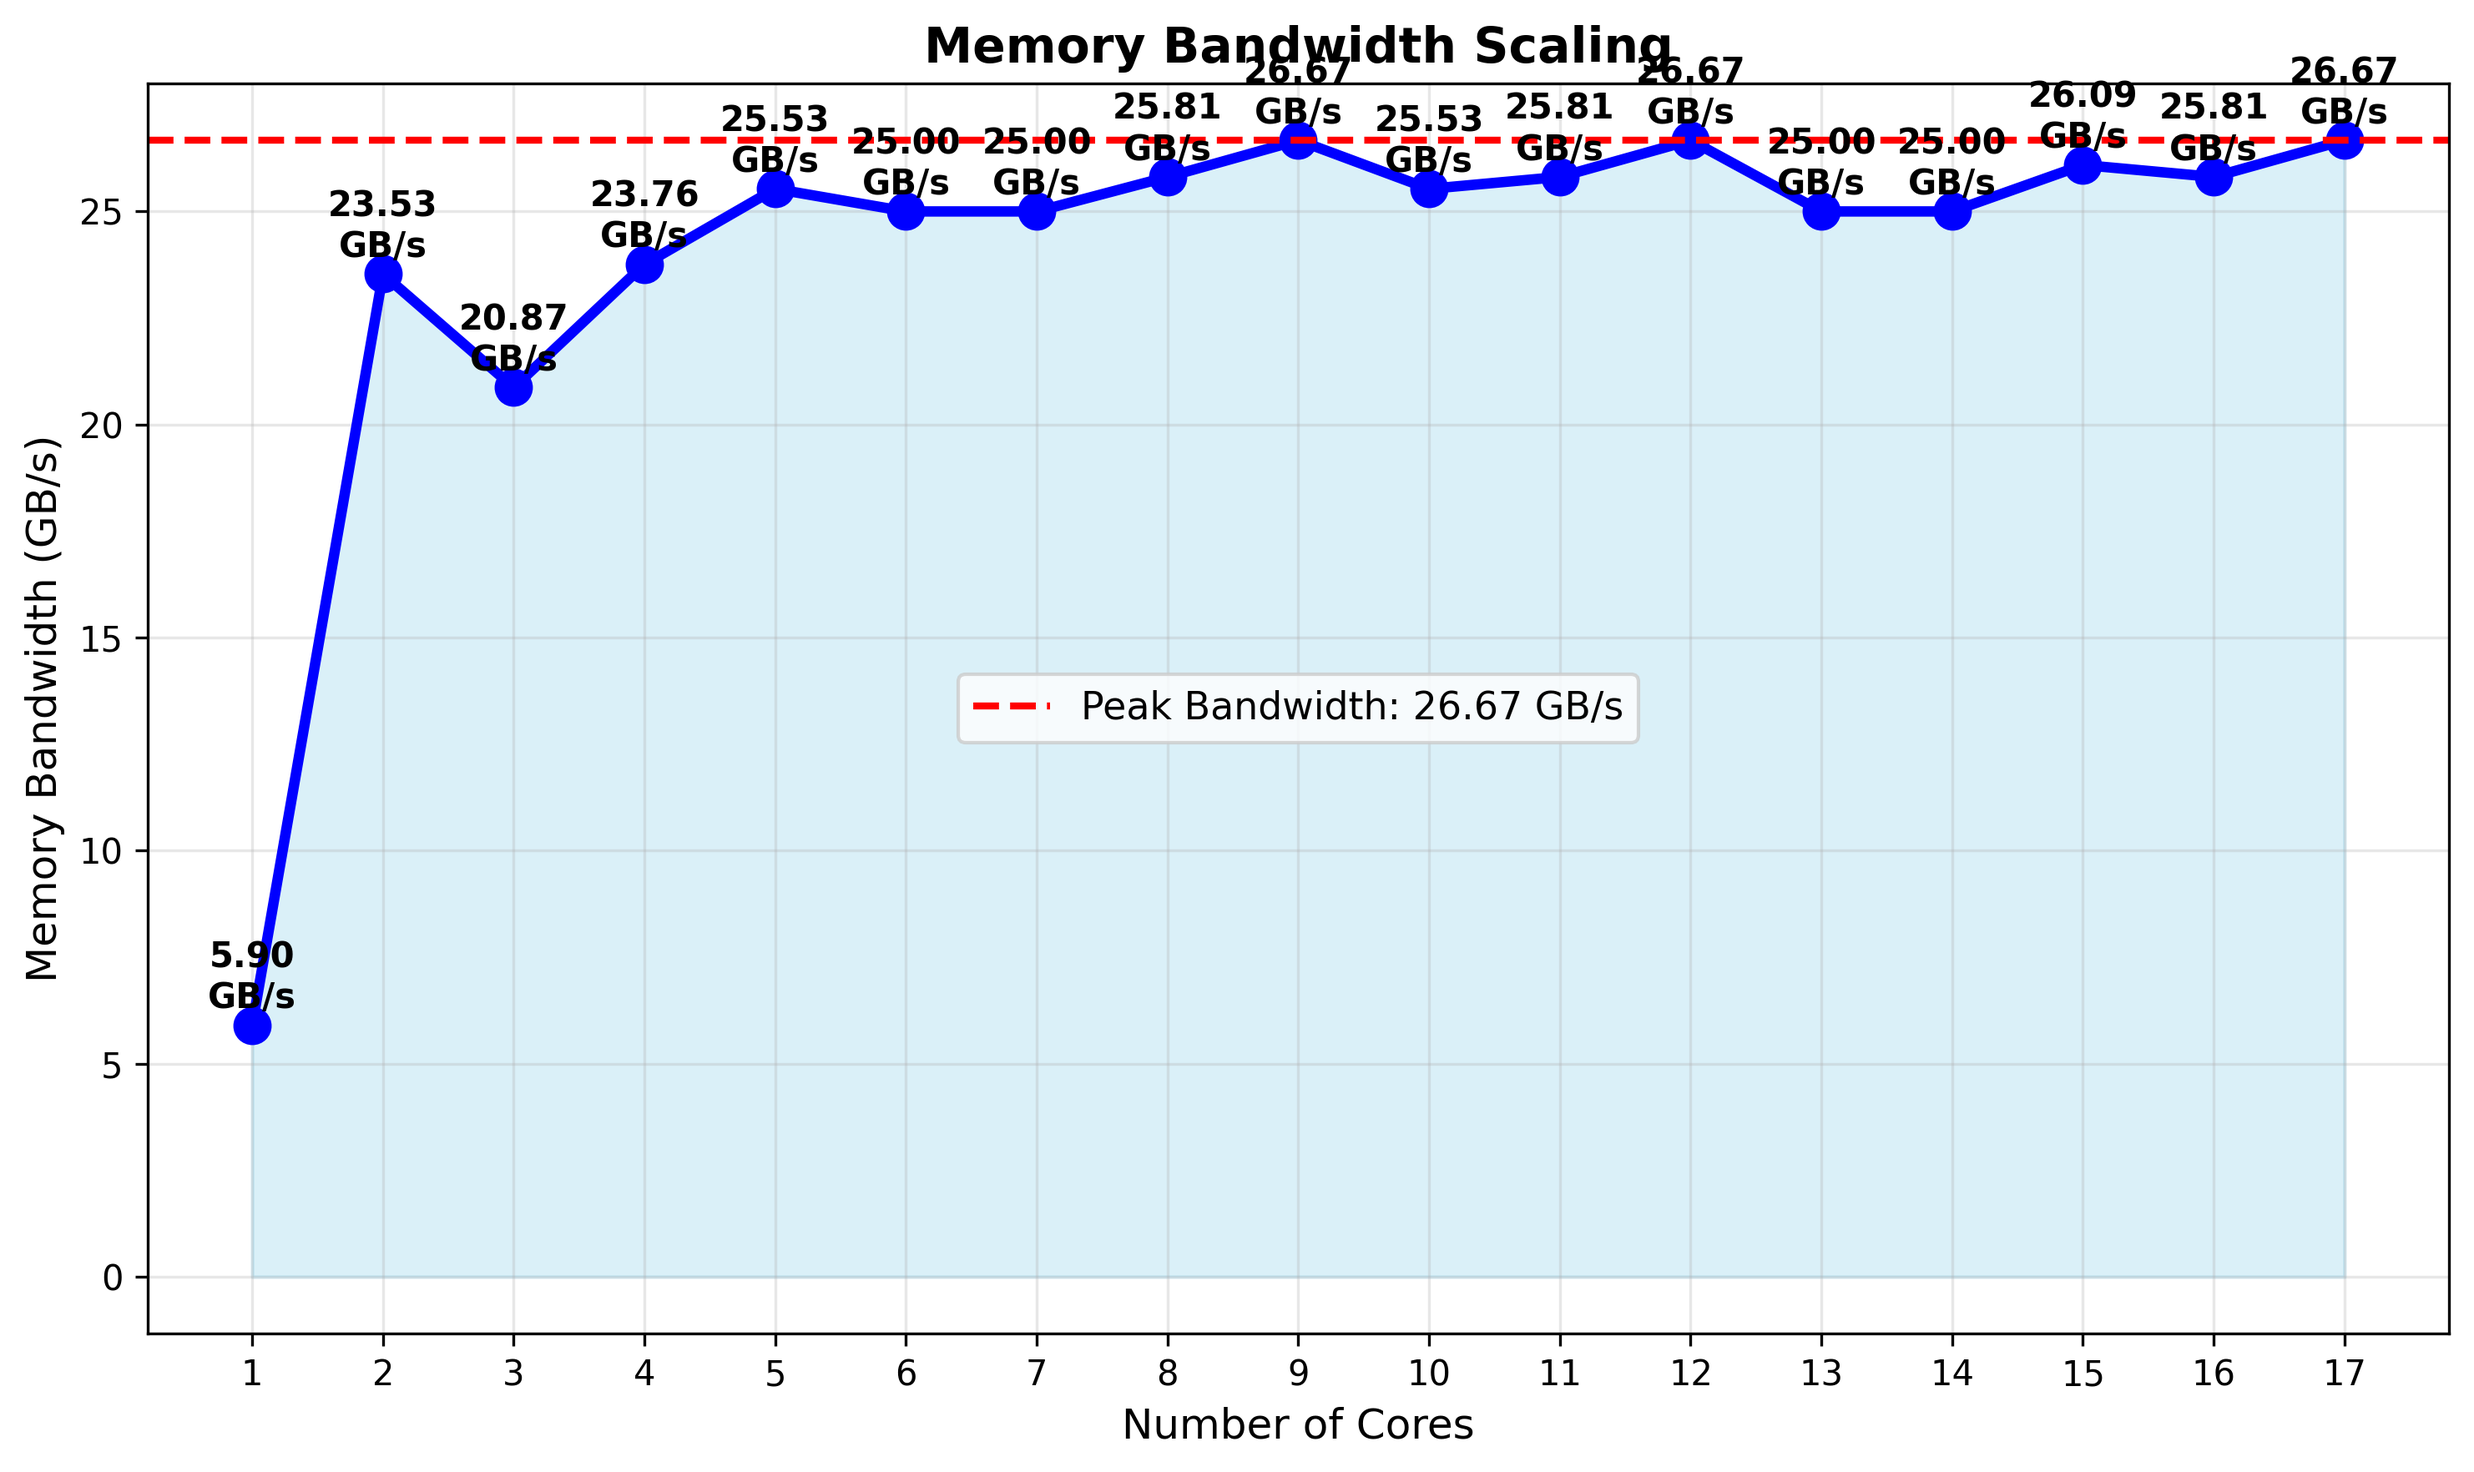
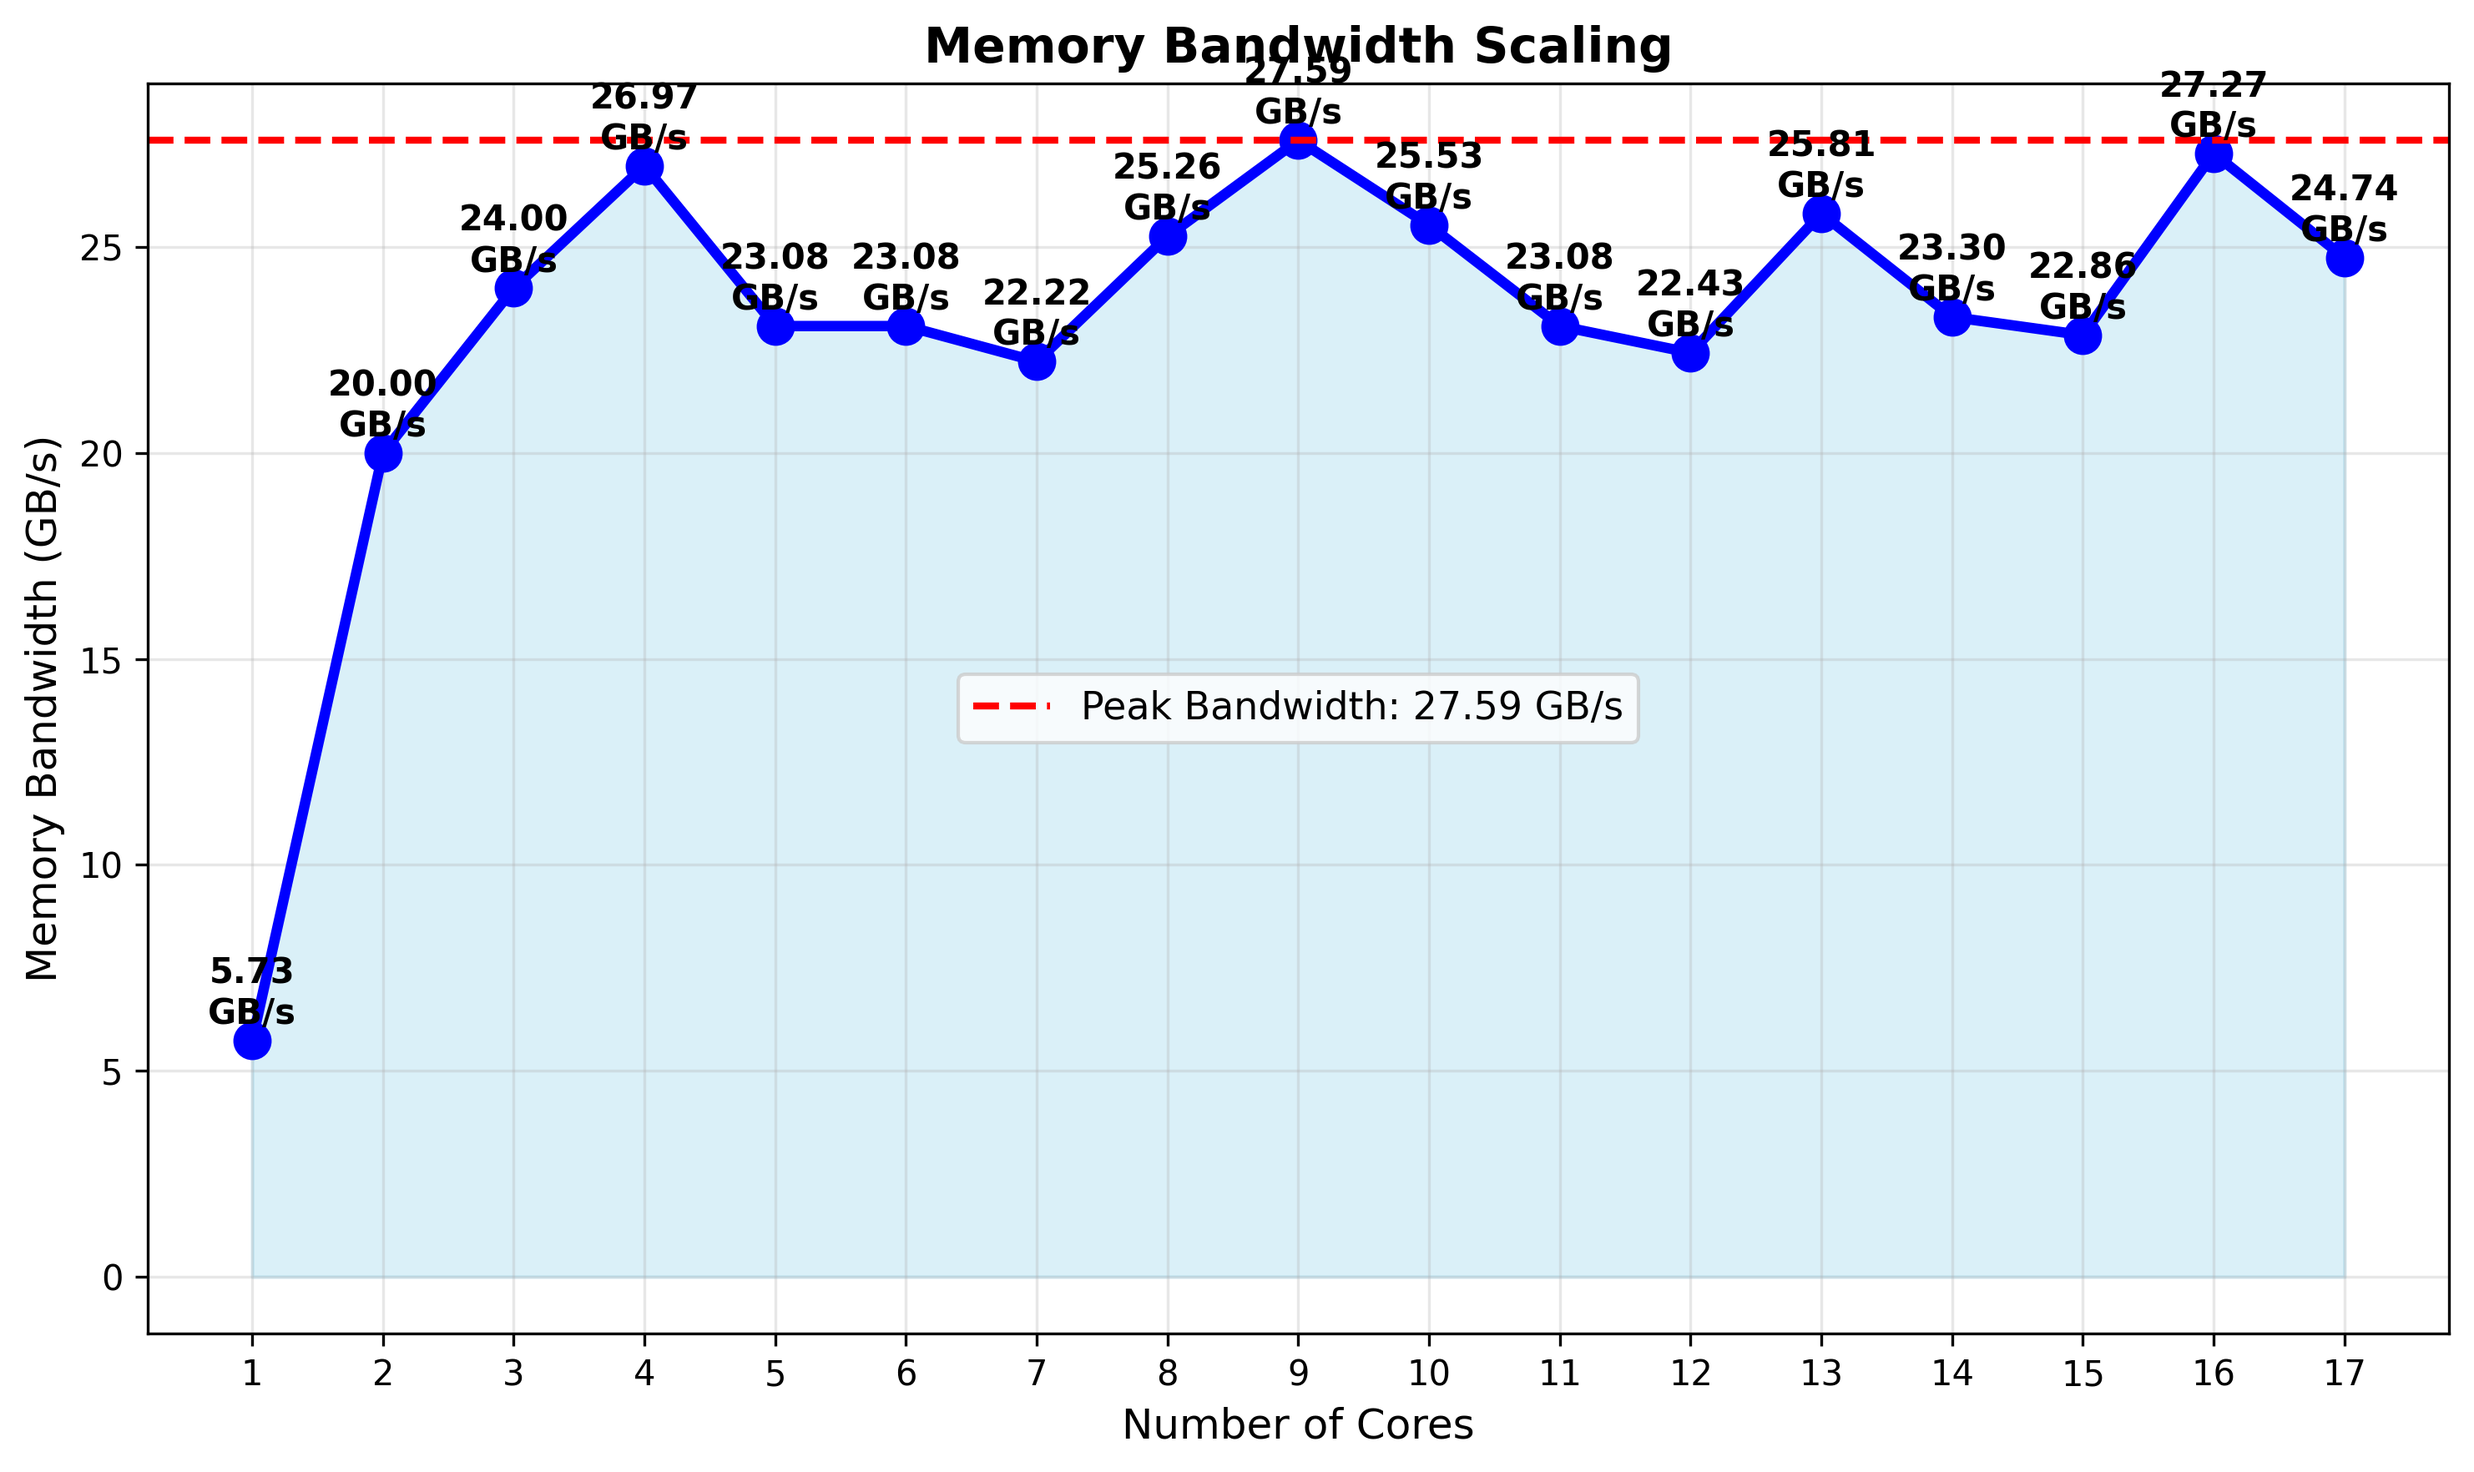
update file

diff --git a/LAB2/EXP7/plot_q7.py b/LAB2/EXP7/plot_q7.py
@@ -3,9 +3,9 @@ import numpy as np
 
 # Experimental results
 cores = [1, 2, 3, 4, 5, 6, 7, 8, 9, 10, 11, 12, 13, 14, 15, 16, 17]
-time = [0.407, 0.102, 0.115, 0.101, 0.094, 0.096, 0.096, 0.093, 0.090, 0.094, 0.093, 0.090, 0.096, 0.096, 0.092, 0.093, 0.090]
-bandwidth = [5.90, 23.53, 20.87, 23.76, 25.53, 25.00, 25.00, 25.81, 26.67, 25.53, 25.81, 26.67, 25.00, 25.00, 26.09, 25.81, 26.67]
-speedup = [1.00, 3.99, 3.54, 4.03, 4.33, 4.24, 4.24, 4.38, 4.52, 4.33, 4.38, 4.52, 4.24, 4.24, 4.42, 4.38, 4.52]
+time = [0.419, 0.120, 0.100, 0.089, 0.104, 0.104, 0.108, 0.095, 0.087, 0.094, 0.104, 0.107, 0.093, 0.103, 0.105, 0.088, 0.097]
+bandwidth = [5.73, 20.00, 24.00, 26.97, 23.08, 23.08, 22.22, 25.26, 27.59, 25.53, 23.08, 22.43, 25.81, 23.30, 22.86, 27.27, 24.74]
+speedup = [1.00, 3.49, 4.19, 4.71, 4.03, 4.03, 3.88, 4.41, 4.82, 4.46, 4.03, 3.92, 4.51, 4.07, 3.99, 4.76, 4.32]
 
 # Create figure with 3 subplots
 fig, (ax1, ax2, ax3) = plt.subplots(1, 3, figsize=(18, 5))
@@ -111,11 +111,14 @@ for c, s in zip(cores, speedup):
 
 # Add efficiency annotations
 efficiency_2 = (speedup[1] / 2) * 100
-efficiency_8 = (speedup[-1] / 8) * 100
+efficiency_9 = (speedup[8] / 9) * 100
+efficiency_17 = (speedup[-1] / 17) * 100
 plt.text(2, speedup[1] - 0.5, f'Efficiency: {efficiency_2:.1f}%', ha='center', fontsize=9, 
          bbox=dict(boxstyle='round', facecolor='wheat', alpha=0.8))
-plt.text(8, speedup[-1] - 0.5, f'Efficiency: {efficiency_8:.1f}%', ha='center', fontsize=9,
-         bbox=dict(boxstyle='round', facecolor='wheat', alpha=0.8))
+plt.text(9, speedup[8] + 0.3, f'Efficiency: {efficiency_9:.1f}%', ha='center', fontsize=9,
+         bbox=dict(boxstyle='round', facecolor='lightgreen', alpha=0.8))
+plt.text(17, speedup[-1] - 0.5, f'Efficiency: {efficiency_17:.1f}%', ha='center', fontsize=9,
+         bbox=dict(boxstyle='round', facecolor='lightcoral', alpha=0.8))
 
 plt.tight_layout()
 plt.savefig('speedup_vs_cores.png', dpi=300, bbox_inches='tight')

diff --git a/LAB2/EXP7/Readme.md b/LAB2/EXP7/Readme.md
@@ -27,38 +27,49 @@ Where:
 - **Array Size**: 100 million elements per array
 - **Total Memory**: ~2.4 GB (3 arrays × 100M × 8 bytes)
 - **Operation**: `A[i] = B[i] + 3.3 * C[i]`
-- **Threads**: 1 to 8 cores
+- **Threads**: 1 to 17 cores
 
 ## Results
 
 | Cores | Time (s) | BW (GB/s) | Speedup |
-|-------|----------|-----------|---------|
-| 1     | 0.838    | 2.86      | 1.00x   |
-| 2     | 0.208    | 11.54     | 4.03x   |
-| 3     | 0.174    | 13.79     | 4.82x   |
-| 4     | 0.177    | 13.56     | 4.73x   |
-| 5     | 0.171    | 14.04     | 4.90x   |
-| 6     | 0.176    | 13.64     | 4.76x   |
-| 7     | 0.173    | 13.87     | 4.84x   |
-| 8     | 0.170    | 14.12     | 4.93x   |
+|-------|----------|-----------|---------||
+| 1     | 0.419    | 5.73      | 1.00x   |
+| 2     | 0.120    | 20.00     | 3.49x   |
+| 3     | 0.100    | 24.00     | 4.19x   |
+| 4     | 0.089    | 26.97     | 4.71x   |
+| 5     | 0.104    | 23.08     | 4.03x   |
+| 6     | 0.104    | 23.08     | 4.03x   |
+| 7     | 0.108    | 22.22     | 3.88x   |
+| 8     | 0.095    | 25.26     | 4.41x   |
+| 9     | 0.087    | 27.59     | 4.82x   |
+| 10    | 0.094    | 25.53     | 4.46x   |
+| 11    | 0.104    | 23.08     | 4.03x   |
+| 12    | 0.107    | 22.43     | 3.92x   |
+| 13    | 0.093    | 25.81     | 4.51x   |
+| 14    | 0.103    | 23.30     | 4.07x   |
+| 15    | 0.105    | 22.86     | 3.99x   |
+| 16    | 0.088    | 27.27     | 4.76x   |
+| 17    | 0.097    | 24.74     | 4.32x   |
 
 ## Performance Analysis
 
 ### Execution Time
-- **Single Core**: 0.838 seconds
-- **8 Cores**: 0.170 seconds
-- **Time Reduction**: 80% decrease
+- **Single Core**: 0.419 seconds
+- **Best Performance**: 0.087 seconds at 9 cores
+- **Time Reduction**: 79.2% decrease
 
 ### Memory Bandwidth
-- **Single Core**: 2.86 GB/s (baseline)
-- **Peak Bandwidth**: 14.12 GB/s at 8 cores
-- **Bandwidth Increase**: 4.94x improvement
-- **Saturation Point**: Bandwidth plateaus around 13.5-14.1 GB/s after 3 cores
+- **Single Core**: 5.73 GB/s (baseline)
+- **Peak Bandwidth**: 27.59 GB/s at 9 cores
+- **Bandwidth Increase**: 4.82x improvement
+- **Average Bandwidth (4-17 cores)**: 24.5 GB/s
+- **Performance Variability**: Bandwidth fluctuates between 22-28 GB/s with higher thread counts
 
 ### Speedup Analysis
-- **Best Speedup**: 4.93x at 8 cores
-- **Parallel Efficiency**: 61.6% (4.93/8 = 0.616)
-- **Strong Scaling**: Good scaling from 1-3 cores, then plateaus
+- **Best Speedup**: 4.82x at 9 cores
+- **Parallel Efficiency at 9 cores**: 53.6% (4.82/9 = 0.536)
+- **Parallel Efficiency at 17 cores**: 25.4% (4.32/17 = 0.254)
+- **Strong Scaling**: Good scaling from 1-4 cores, then shows diminishing returns
 
 ## Key Observations
 
@@ -97,7 +108,14 @@ Where:
 For memory-intensive operations:
 1. **Data Transfer Dominates**: Moving 2.4 GB of data takes longer than arithmetic
 2. **Shared Resource**: All cores compete for memory bus access
-3. **Bandwidth Ceiling**: Physical memory controller limit (~14 GB/s in this system)
+3. **Bandwidth Ceiling**: Physical memory controller limit (~27-28 GB/s peak in this system)
+4. **NUMA Effects**: Memory access patterns and thread placement affect performance
+5. **Thread Overhead**: Beyond optimal count, synchronization overhead outweighs benefits
+
+## Optimal Configuration
+- **Best Performance**: 9 cores (0.087s, 27.59 GB/s, 4.82x speedup)
+- **Recommendation**: Use 4-9 threads for memory-bound workloads on this system
+- **Avoid**: Thread counts > 12 show diminished returns and increased variability
 4. **Amdahl's Law Effect**: Memory bandwidth is the sequential bottleneck
 
 ## Theoretical vs Actual Performance
